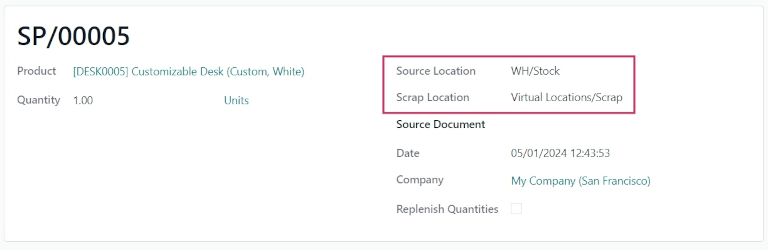
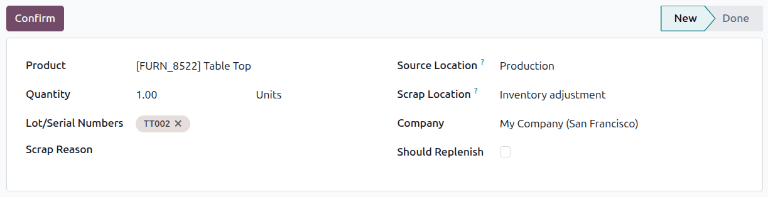
[IMP] Inventory: Update stock moves documentation

diff --git a/content/applications/inventory_and_mrp/inventory/warehouses_storage/inventory_management/scrap_inventory.rst b/content/applications/inventory_and_mrp/inventory/warehouses_storage/inventory_management/scrap_inventory.rst
@@ -6,14 +6,12 @@ Scrap inventory
 .. |SPs| replace:: :abbr:`SPs (Scrap Orders)`
 
 Sometimes, products in a company's warehouse stock might be found to be damaged or defective, past
-the point of being reparable. If it is not possible to repair the product, or return the product to
-a vendor, it can be scrapped.
+the point of being reparable. If it is not possible to repair the product or return it to a vendor,
+it can be scrapped. Odoo **Inventory** allows users to scrap inventory, designating goods or
+materials that are no longer usable or sellable for disposal (or recycling).
 
-Odoo *Inventory* allows users to scrap inventory, designating goods or materials that are no longer
-usable or sellable for disposal (or recycling).
-
-Scrapping inventory in a database helps stock counts remain accurate, by removing scrapped products
-from physical inventory, and placing it in a virtual scrap location (*Virtual Locations/Scrap*).
+Scrapping inventory in a database helps stock counts remain accurate by removing scrapped products
+from physical inventory and placing it in a virtual scrap location (*Inventory adjustment*).
 
 .. note::
    *Virtual locations* in Odoo are **not** real, physical spaces in a warehouse. Rather, they are
@@ -29,62 +27,54 @@ Scrap from stock
 To create a new scrap order (SP) for an in-stock product, navigate to :menuselection:`Inventory app
 --> Operations --> Scrap`, and click :guilabel:`New`. This opens a new |SP| form.
 
-Click the drop-down menu in the :guilabel:`Product` field, and select the product that should be
+Click the drop-down menu in the :guilabel:`Product` field and select the product that should be
 scrapped from inventory. In the :guilabel:`Quantity` field, change the value to the quantity of the
-product that should be scrapped (by default, this value is set to `1.00`).
-
-.. image:: scrap_inventory/scrap-inventory-new-scrap-order.png
-   :align: center
-   :alt: Filled out new scrap order form with product details.
-
+product that should be scrapped. By default, this value is set to `0.00`. If the product is tracked
+by lot or serial number, specify the tracking number in the :guilabel:`Lot/Serial Numbers` field.
 The :guilabel:`Source Location` defaults to the location where the product is currently stored. The
-:guilabel:`Scrap Location` defaults to the designated scrap location (:guilabel:`Virtual
-Locations/Scrap`). Either of these locations can be changed by selecting a different location from
-their respective drop-down menus.
+:guilabel:`Scrap Location` defaults to the designated scrap location (:guilabel:`Inventory
+adjustment`). Either of these locations can be changed by selecting a different location from their
+respective drop-down menus.
 
-If the scrapping is tied to a specific existing operation, specify the operation in the
-:guilabel:`Source Document` field.
+.. note::
+   The location fields only display when :guilabel:`Storage Locations` is enabled in
+   :menuselection:`Inventory app --> Configuration --> Settings`.
 
 The :guilabel:`Company` field displays the company whose warehouse this product belongs to. If a
 replenishment rule is set up for the product being scrapped, and if the product should be
-replenished, tick the checkbox for :guilabel:`Replenish Quantities`.
+replenished, tick the checkbox for :guilabel:`Should Replenish`.
 
-Once ready, click :guilabel:`Validate` to complete the new |SP|. Once validated, a
-:guilabel:`Product Moves` smart button appears at the top of the form. Click the smart button to
-view the details of the scrap operation.
+.. image:: scrap_inventory/scrap-inventory-new-scrap-order.png
+   :alt: Filled out new scrap order form with product details.
 
-.. image:: scrap_inventory/scrap-inventory-product-moves-button.png
-   :align: center
-   :alt: Product Moves smart button on new scrap order form.
+Once ready, click :guilabel:`Confirm` to complete the new |SP|.
 
 .. tip::
    To view the all-time total quantities of scrapped items, navigate to :menuselection:`Inventory
-   app --> Configuration --> Locations`. Click the :guilabel:`x (remove)` button on the
-   :guilabel:`Internal` filter in the :guilabel:`Search...` bar, to display virtual locations.
+   app --> Reporting --> Moves History`. This report is only available to users with :doc:`admin
+   access <../../../../general/users/access_rights>`.
 
-   Select the :guilabel:`Virtual Locations/Scrap` location. From the :guilabel:`Scrap` location's
-   form, click the :guilabel:`Current Stock` smart button, at the top of the form.
+   On the :guilabel:`Moves History` page, click in the :guilabel:`Search` field, then select
+   :menuselection:`Filters --> Scrapped`.
 
    A list of all scrapped products, and their quantities, is displayed.
 
-   .. image:: scrap_inventory/scrap-inventory-current-stock.png
-      :align: center
-      :alt: Current Stock list of all scrapped products in virtual scrap location.
+   .. image:: scrap_inventory/moves-history-scrapped.png
+      :alt: List of all scrapped products in Moves History report.
 
 Scrap from an existing operation
 ================================
 
 Scrap orders (SPs) can *also* be created from existing operations, such as receipts, delivery
-orders, and internal transfers, before they are entered into, or removed from, stock for an
+orders, and internal transfers before they are entered into or removed from stock for an
 operation.
 
 To scrap a product during an operation, navigate to the :menuselection:`Inventory app`. From the
 :guilabel:`Inventory Overview`, click the :guilabel:`# To Process` button on an operation's task
-card (i.e. the :guilabel:`Receipts` task card).
+card (for example, click :guilabel:`5 to Receive` on the :guilabel:`Receipts` card).
 
-.. image:: scrap_inventory/scrap-inventory-receipts-task-card.png
-   :align: center
-   :alt: # To Process button on Receipts task card on Inventory Overview page.
+.. image:: scrap_inventory/inventory-overview.png
+   :alt: # To Receive button on Receipts task card on Inventory Overview page.
 
 Then, select an operation to process from the resulting list of existing orders. Doing so opens that
 operation's form.
@@ -92,25 +82,77 @@ operation's form.
 Click the :icon:`fa-cog` :guilabel:`(cog)` icon, and select :guilabel:`Scrap` from the resulting
 drop-down menu. This opens a :guilabel:`Scrap Products` pop-up window.
 
-.. image:: scrap_inventory/scrap-inventory-popup-window.png
-   :align: center
+From this pop-up window, click the drop-down menu in the :guilabel:`Product` field and select the
+product from the operation that should be scrapped. Adjust the value in the :guilabel:`Quantity`
+field. If the :guilabel:`Product` selected is tracked using a lot or serial number, a
+:guilabel:`Lot/Serial` field appears. Specify the tracking number in that field. The
+:guilabel:`Source Location` and :guilabel:`Scrap Location` can be changed if needed.
+
+.. note::
+   The location fields only display when :guilabel:`Storage Locations` is enabled in
+   :menuselection:`Inventory app --> Configuration --> Settings`.
+
+If a replenishment rule is set up for the product being scrapped and the product should be
+replenished, tick the checkbox for :guilabel:`Should Replenish`.
+
+Once ready, click :guilabel:`Confirm`.
+
+.. image:: scrap_inventory/scrap-products-receipt.png
    :alt: Scrap Products pop-up window on operation form.
 
-From this pop-up window, click the drop-down menu in the :guilabel:`Product` field, and select the
-products from the operation that should be scrapped. Adjust the value in the :guilabel:`Quantity`
-field, if necessary.
+A :icon:`oi-arrows-v` :guilabel:`Scraps` smart button appears at the top of the operation form.
+Click this smart button to view the details of all scrap orders created from this specific
+operation.
 
-If the :guilabel:`Product` selected is tracked using a lot or serial number, a
-:guilabel:`Lot/Serial` field appears. Specify the tracking number in that field.
-
-The :guilabel:`Source Location` and :guilabel:`Scrap Location` can be changed, if needed. If a
-replenishment rule is set up for the product being scrapped, and if the product should be
-replenished, tick the checkbox for :guilabel:`Replenish Quantities`.
-
-Once ready, click :guilabel:`Scrap Products`. A :guilabel:`Scraps` smart button appears at the top
-of the operation form. Click this smart button to view the details of all scrap orders created from
-this specific operation.
-
-.. image:: scrap_inventory/scrap-inventory-scraps-smart-button.png
-   :align: center
+.. image:: scrap_inventory/scraps-smart-button-delivery.png
    :alt: Scraps smart button showing all scrap orders from operation.
+
+Scrap from a lot or serial number
+=================================
+
+Scrap orders (SPs) can also be created from lots or serial numbers.
+
+To scrap a product with a lot or serial number, open :menuselection:`Inventory app --> Products -->
+Lots/Serial Numbers`. Open a lot or serial number from the list. On the :guilabel:`Lot/Serial
+Number` form, click the :icon:`fa-cog` :guilabel:`(cog)` icon, then select :guilabel:`Scrap`. This
+opens a form to scrap the product.
+
+In the form, verify that the correct :guilabel:`Product` is selected. Specify the
+:guilabel:`Quantity` of products that should be scrapped. Verify that the :guilabel:`Lot/Serial
+Numbers` value is correct. Specify a :guilabel:`Scrap Reason`. The :guilabel:`Source Location`
+defaults to the location where the product is currently stored. The :guilabel:`Scrap Location`
+defaults to the designated scrap location (:guilabel:`Inventory adjustment`). Either of these
+locations can be changed by selecting a different location from their respective drop-down menus.
+
+.. note::
+   The location fields only display when :guilabel:`Storage Locations` is enabled in
+   :menuselection:`Inventory app --> Configuration --> Settings`.
+
+If a replenishment rule is set up for the product being scrapped, and if the product should be
+replenished, select the :guilabel:`Should Replenish` check box.
+
+.. image:: scrap_inventory/scrap-inventory-lot-serial-number.png
+   :alt: Filled out lot or serial number scrap order form with product details.
+
+Once ready, click :guilabel:`Confirm`.
+
+After the scrap is created, follow the breadcrumbs back to the :guilabel:`Lot/Serial Number` form. A
+:icon:`fa-trash` :guilabel:`Scraps` smart button appears at the top of the :guilabel:`Lot/Serial
+Number` form.
+
+.. image:: scrap_inventory/lot-serial-number-scrap-button.png
+   :alt: Find scraps from the Lot/Serial Number form.
+
+Revert a scrap
+==============
+
+Revert a scrap from the :guilabel:`Moves History` report.
+
+.. note::
+   This report is only available to users with :doc:`admin access
+   <../../../../general/users/access_rights>`.
+
+Open :menuselection:`Inventory app --> Reporting --> Moves History`.
+
+Select the check box next to the scrap operation to revert. Click the :icon:`fa-cog`
+:guilabel:`Actions` menu, then select :guilabel:`Revert`.

diff --git a/content/applications/inventory_and_mrp/inventory/warehouses_storage/reporting/moves_history.rst b/content/applications/inventory_and_mrp/inventory/warehouses_storage/reporting/moves_history.rst
@@ -2,7 +2,7 @@
 Moves history report
 ====================
 
-The *Moves History* report in Odoo *Inventory* provides a detailed record of product movements
+The *Moves History* report in Odoo **Inventory** provides a detailed record of product movements
 (containing past and current locations), lot numbers, and reasons for movement. Reports can be
 generated for any time frame, making this report essential for analyzing stock levels, monitoring
 inventory turnover, and identifying any discrepancies in inventory.
@@ -61,6 +61,7 @@ relevant information
       - :guilabel:`Internal`: displays move records from one internal location to another.
       - :guilabel:`Manufacturing`: shows records where products were produced from the virtual,
         production :doc:`location <../inventory_management/use_locations>`.
+      - :guilabel:`Scrapped`: shows records where products have been scrapped.
       - :guilabel:`Date`: select this drop-down menu to access various date filter options and view
         stock moves from a specific month, quarter, or year.
       - :guilabel:`Last 30 Days`: show records that occurred in the last thirty days.
